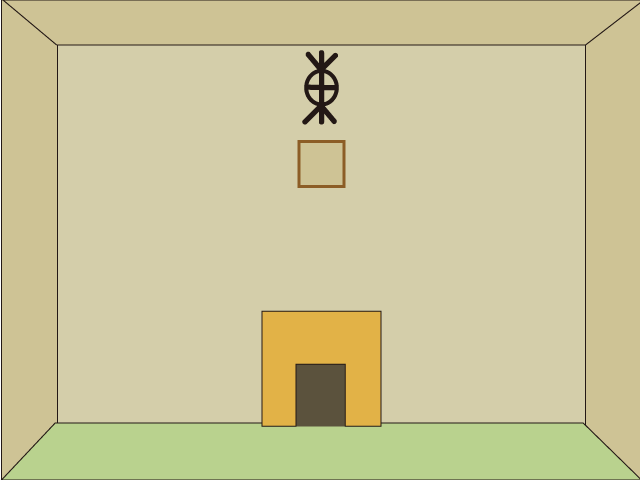
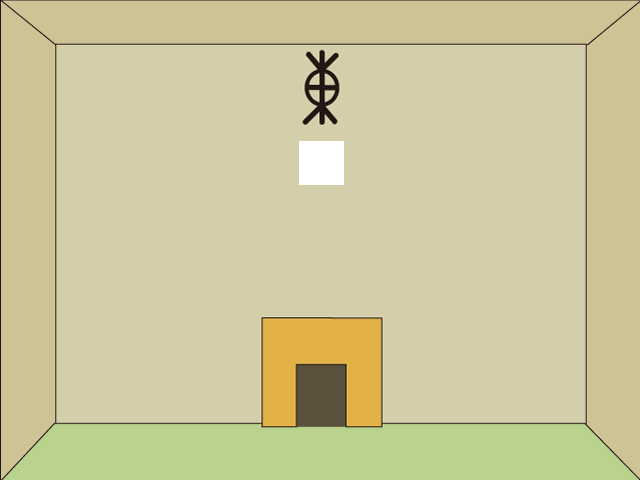
Add the fireplace map

diff --git a/core/src/escape/room/game/ERScreen.java b/core/src/escape/room/game/ERScreen.java
@@ -32,7 +32,7 @@ public class ERScreen implements Screen {
 	private SpriteBatch batch;
 
 	private ItemTray itemTray;
-	private Map currentMap, eastMap, southMap, westMap, northMap;
+	private Map currentMap, eastMap, eastMapFireplaceTop, eastMapFireplaceFront, southMap, westMap, northMap;
 
 	public ERScreen(EscapeRoomGame game) {
 		this.game = game;
@@ -50,8 +50,6 @@ public class ERScreen implements Screen {
 		initMap();
 
 		batch = new SpriteBatch();
-
-		Gdx.input.setInputProcessor(new InputMultiplexer(new ERScreenInputHandler(this), new UIIputHandler(itemTray)));
 	}
 
 	@Override
@@ -75,6 +73,7 @@ public class ERScreen implements Screen {
 
 	@Override
 	public void show() {
+		Gdx.input.setInputProcessor(new InputMultiplexer(new ERScreenInputHandler(this), new UIIputHandler(itemTray)));
 	}
 
 	@Override
@@ -102,18 +101,48 @@ public class ERScreen implements Screen {
 
 		// 東邊地圖
 		TextureAtlas mapAtlas = assetManager.get("images/maps/east_map/east_map.atlas");
-
 		eastMap = new Map();
 
 		// 背景
 		Sprite bg = createSprite(mapAtlas, "bg");
 
+		// 空洞
+		TouchableSprite hole = new TouchableSprite(createSprite(mapAtlas, "hole"));
+		hole.setPosition(297, 141);
+
+		// 木頭
+		// TouchableSprite wood = new TouchableSprite(createSprite(mapAtlas, "wood"), true, false);
+		TouchableSprite wood = new TouchableSprite(createSprite(mapAtlas, "wood"));
+		wood.setPosition(305, 405);
+		wood.setOnTouchDown(e -> {
+			currentMap = eastMapFireplaceFront;
+			return true;
+		});
+
 		// 壁爐頂端
 		TouchableSprite fireplaceTop = new TouchableSprite(createSprite(mapAtlas, "fireplace_top"));
-		fireplaceTop.setCenterX(321);
-		fireplaceTop.setY(312 - fireplaceTop.getHeight());
+		fireplaceTop.setCenterX(323);
+		fireplaceTop.setY(318 - fireplaceTop.getHeight());
 		fireplaceTop.setOnTouchDown(e -> {
-			System.out.println("Touch down");
+			currentMap = eastMapFireplaceTop;
+			return true;
+		});
+
+		// 鎚子
+		TouchableSprite hammer = new TouchableSprite(createSprite(mapAtlas, "hammer"), false);
+		hammer.setPosition(460, 400);
+		hammer.setOnTouchDown(e -> {
+			eastMap.removeSprite(hammer);
+			itemTray.addItem(Item.LIGHTER);
+			return true;
+		});
+
+		// 鋸子
+		TouchableSprite saw = new TouchableSprite(createSprite(mapAtlas, "saw"), false);
+		saw.setPosition(450, 360);
+		saw.setOnTouchDown(e -> {
+			eastMap.removeSprite(saw);
+			itemTray.addItem(Item.LIGHTER);
 			return true;
 		});
 
@@ -129,6 +158,12 @@ public class ERScreen implements Screen {
 
 			toolboxOpen.setVisible(true);
 			toolboxOpen.setTouchable(true);
+
+			hammer.setVisible(true);
+			hammer.setTouchable(true);
+
+			saw.setVisible(true);
+			saw.setTouchable(true);
 			return true;
 		});
 
@@ -139,6 +174,12 @@ public class ERScreen implements Screen {
 
 			toolboxOpen.setVisible(false);
 			toolboxOpen.setTouchable(false);
+
+			hammer.setVisible(false);
+			hammer.setTouchable(false);
+
+			saw.setVisible(false);
+			saw.setTouchable(false);
 			return true;
 		});
 
@@ -153,7 +194,6 @@ public class ERScreen implements Screen {
 		// 箭頭
 		TouchableSprite arrowLeft = createArrow(ArrowType.LEFT, uiAtlas);
 		arrowLeft.setOnTouchDown(e -> {
-			System.out.println("Down");
 			return true;
 		});
 
@@ -163,7 +203,57 @@ public class ERScreen implements Screen {
 			return true;
 		});
 
-		eastMap.addSprites(bg, fireplaceTop, toolboxClose, toolboxOpen, arrowLeft, arrowRight);
+		eastMap.addSprites(bg, hole, wood, fireplaceTop, toolboxClose, toolboxOpen, hammer, saw, arrowLeft, arrowRight);
+
+		// 東邊地圖之壁爐上方
+		mapAtlas = assetManager.get("images/maps/east_map_fireplace_top/east_map_fireplace_top.atlas");
+		eastMapFireplaceTop = new Map();
+
+		// 背景
+		bg = createSprite(mapAtlas, "bg");
+
+		// 打火機
+		TouchableSprite lighter = new TouchableSprite(createSprite(mapAtlas, "lighter"));
+		lighter.setPosition(100, 200);
+		lighter.setOnTouchDown(e -> {
+			eastMapFireplaceTop.removeSprite(lighter);
+			itemTray.addItem(Item.LIGHTER);
+			return true;
+		});
+
+		// 箭頭
+		TouchableSprite arrowDown = createArrow(ArrowType.DOWN, uiAtlas);
+		arrowDown.setOnTouchDown(e -> {
+			currentMap = eastMap;
+			return true;
+		});
+
+		eastMapFireplaceTop.addSprites(bg, lighter, arrowDown);
+
+		// 東邊地圖之壁爐前方
+		mapAtlas = assetManager.get("images/maps/east_map_fireplace_front/east_map_fireplace_front.atlas");
+		eastMapFireplaceFront = new Map();
+
+		// 背景
+		bg = createSprite(mapAtlas, "bg");
+
+		// 鑰匙
+		TouchableSprite key = new TouchableSprite(createSprite(mapAtlas, "key"));
+		key.setPosition(275, 425);
+		key.setOnTouchDown(e -> {
+			eastMapFireplaceFront.removeSprite(key);
+			itemTray.addItem(Item.LIGHTER);
+			return true;
+		});
+
+		// 箭頭
+		arrowDown = createArrow(ArrowType.DOWN, uiAtlas);
+		arrowDown.setOnTouchDown(e -> {
+			currentMap = eastMap;
+			return true;
+		});
+
+		eastMapFireplaceFront.addSprites(bg, key, arrowDown);
 
 		// 南邊地圖
 		mapAtlas = assetManager.get("images/maps/south_map/south_map.atlas");

diff --git a/core/src/escape/room/game/LoadingScreen.java b/core/src/escape/room/game/LoadingScreen.java
@@ -73,6 +73,8 @@ public class LoadingScreen implements Screen {
 		assetManager.load("images/uis/ui.atlas", TextureAtlas.class);
 		assetManager.load("images/icons/icon.atlas", TextureAtlas.class);
 		assetManager.load("images/maps/east_map/east_map.atlas", TextureAtlas.class);
+		assetManager.load("images/maps/east_map_fireplace_top/east_map_fireplace_top.atlas", TextureAtlas.class);
+		assetManager.load("images/maps/east_map_fireplace_front/east_map_fireplace_front.atlas", TextureAtlas.class);
 		assetManager.load("images/maps/south_map/south_map.atlas", TextureAtlas.class);
 
 		assetManager.finishLoadingAsset("fonts/font.fnt");

diff --git a/core/src/escape/room/game/Map.java b/core/src/escape/room/game/Map.java
@@ -37,7 +37,11 @@ public class Map {
 	}
 
 	public TouchableSprite[] getTouchableSprites() {
-		return touchableSprites.toArray(TouchableSprite.class);
+		touchableSprites.reverse();
+		TouchableSprite[] rlt = touchableSprites.toArray(TouchableSprite.class);
+		touchableSprites.reverse();
+
+		return rlt;
 	}
 
 	public void draw(Batch batch) {
